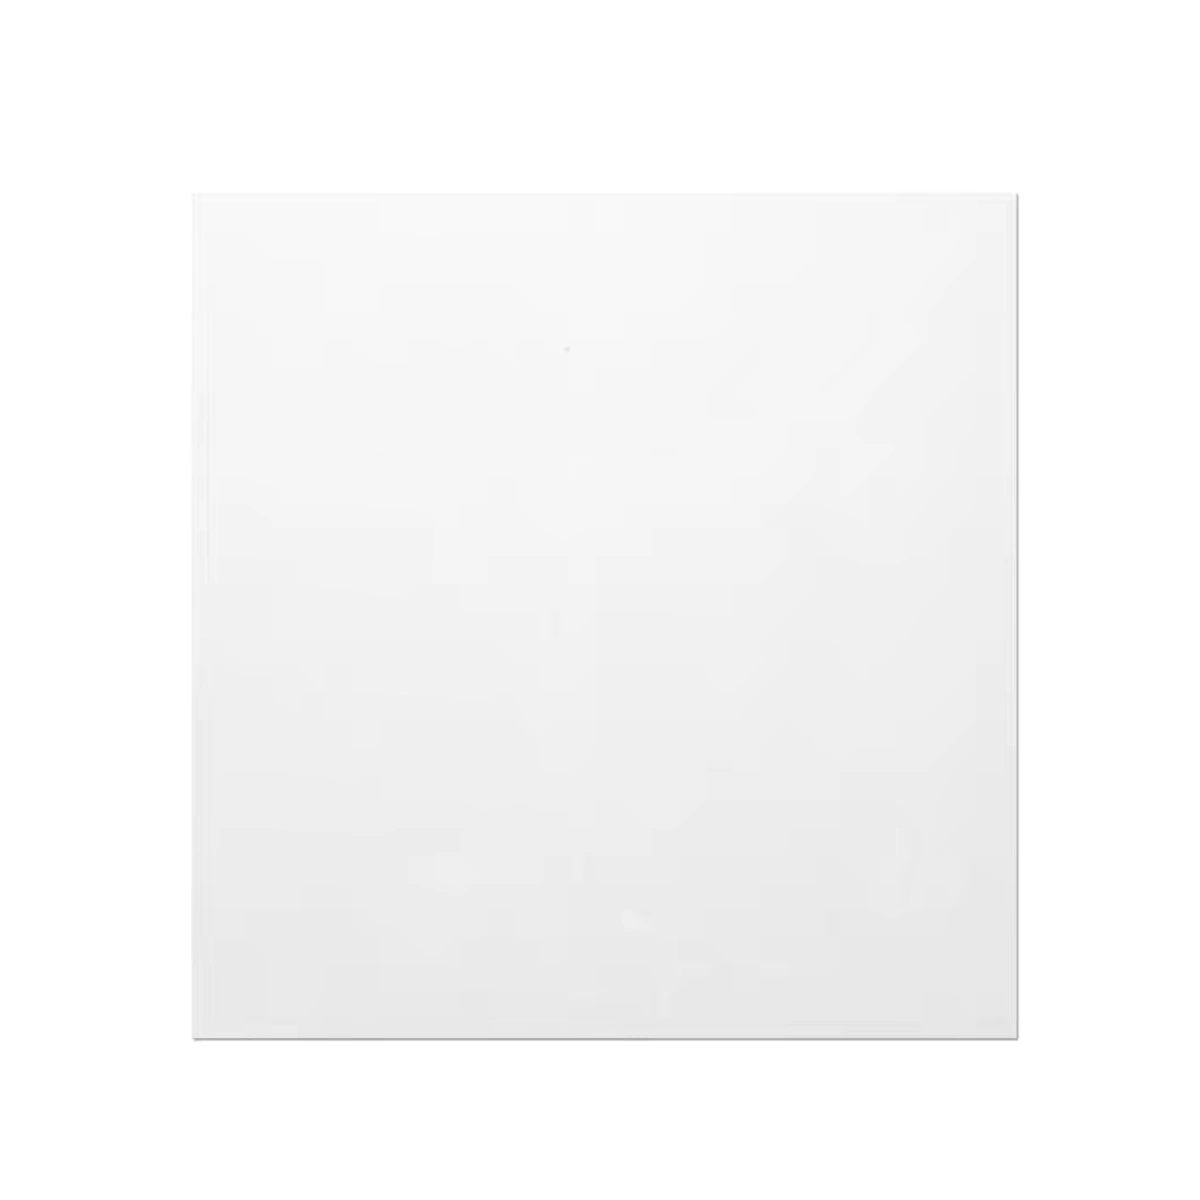
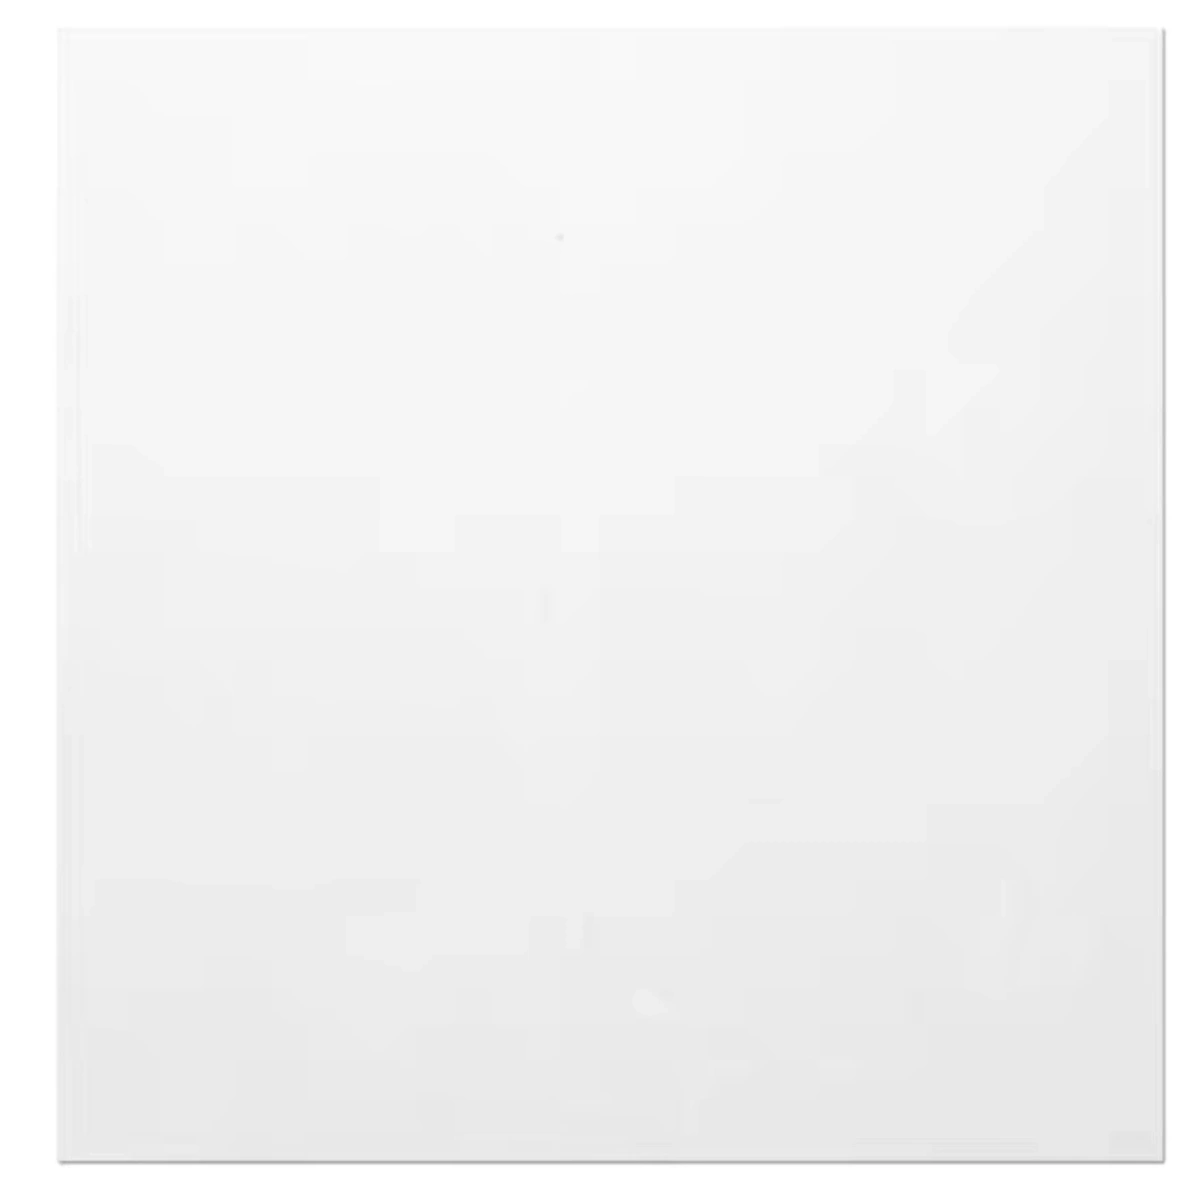
update pro

Changed region(s): [[0.0617, 0.0308, 0.9867, 0.9867]]

diff --git a/src/data/products.ts b/src/data/products.ts
@@ -2073,7 +2073,7 @@ export const products = [
   {
     id: 80,
     categoryId: 8,
-    name: "แผ่นฝ้าทีบาร์ตราช้าง SCG คัลเลอร์ทัช สีมุก ขนาด 60 x 60 ซม.",
+    name: "แผ่นฝ้าทีบาร์ตราช้าง SCG คัลเลอร์ทัช สีมุก ขนาด 60 x 60 ซม. หนา 8 มม.",
     slug: "แผ่นฝ้าทีบาร์ตราช้าง-SCG-คัลเลอร์ทัช-สีมุก-ขนาด-60-x-60-ซม",
     price: "ราคา 25 บาท +VAT7%",
     image: "/products/ฝ้าทีบาร์/ฝ้าทีบาร์ตราช้าง.webp",
@@ -2372,6 +2372,35 @@ export const products = [
       "รุ่นประหยัด ราคาคุ้มค่าที่สุดในกลุ่มแปหลังคา",
       "เคลือบกัลวาไนซ์ ทนต่อการกัดกร่อน แข็งแรง",
       "แปสำเร็จรูป ยาว 6 เมตร ติดตั้งง่าย จัดส่งสะดวก",
+    ],
+  },
+  {
+    id: 104,
+    categoryId: 8,
+    name: "แผ่นฝ้าทีบาร์ ลายเศรษฐี ขนาด 60x60 ซม. หนา 9 มม.",
+    slug: "แผ่นฝ้าทีบาร์-ลายเศรษฐี-ขนาด-60x60-ซม-หนา-9-มม",
+    price: "ราคา 165 บาท ไม่รวม Vat 7%",
+    image: "/products/ฝ้าทีบาร์/ฝ้าทีบาร์ลายเศรษฐี.webp",
+    description:
+      "แผ่นฝ้าทีบาร์ ลายเศรษฐี ขนาด 60×60 ซม. หนา 9 มม. สีขาว ผิวลายเศรษฐีให้เพดานดูมีสไตล์ น้ำหนักเบา ตัดแต่งง่าย 1 กล่องบรรจุ 10 แผ่น จัดส่งทั่วไทย",
+    features: [
+      "ลายเศรษฐี ผิวลายให้เพดานดูมีสไตล์",
+      "ขนาด 60×60 ซม. หนา 9 มม. | 1 กล่องบรรจุ 10 แผ่น",
+      "สีขาวสำเร็จรูป",
+      "น้ำหนักเบา ตัดแต่งแผ่นง่าย",
+      "สำหรับงานฝ้าโครงทีบาร์",
+    ],
+    applications: [
+      "บ้านพักอาศัย",
+      "ห้องประชุม สำนักงาน",
+      "โรงพยาบาล",
+      "ห้างสรรพสินค้า ร้านสะดวกซื้อ",
+    ],
+    optionalServices: [
+      {
+        title: "ราคาโครงการ",
+        description: "โปรดติดต่อพนักงานขาย",
+      },
     ],
   },
 ];

diff --git a/src/app/products/productsClientPage.tsx b/src/app/products/productsClientPage.tsx
@@ -129,11 +129,10 @@ function groupGypsumAcousticProducts(items: Product[]) {
 // Built by group membership (in the order below), so it is independent of
 // how products are ordered in src/data/products.ts.
 const TBAR_GROUPS = [
-  { label: "60*60ซม. หนา 9มม.", ids: [45, 58, 62, 66, 70] },
+  { label: "60*60ซม. หนา 9มม.", ids: [45, 58, 62, 66, 70, 80, 104] },
   { label: "60*60ซม. หนา 12มม.", ids: [55, 59, 63, 67, 71] },
   { label: "60*120ซม. หนา 9มม.", ids: [56, 60, 64, 68, 72] },
   { label: "60*120ซม. หนา 12มม.", ids: [57, 61, 65, 69, 73] },
-  { label: "60*60ซม.", ids: [80] },
 ];
 
 function groupTBarProducts(items: Product[]) {
